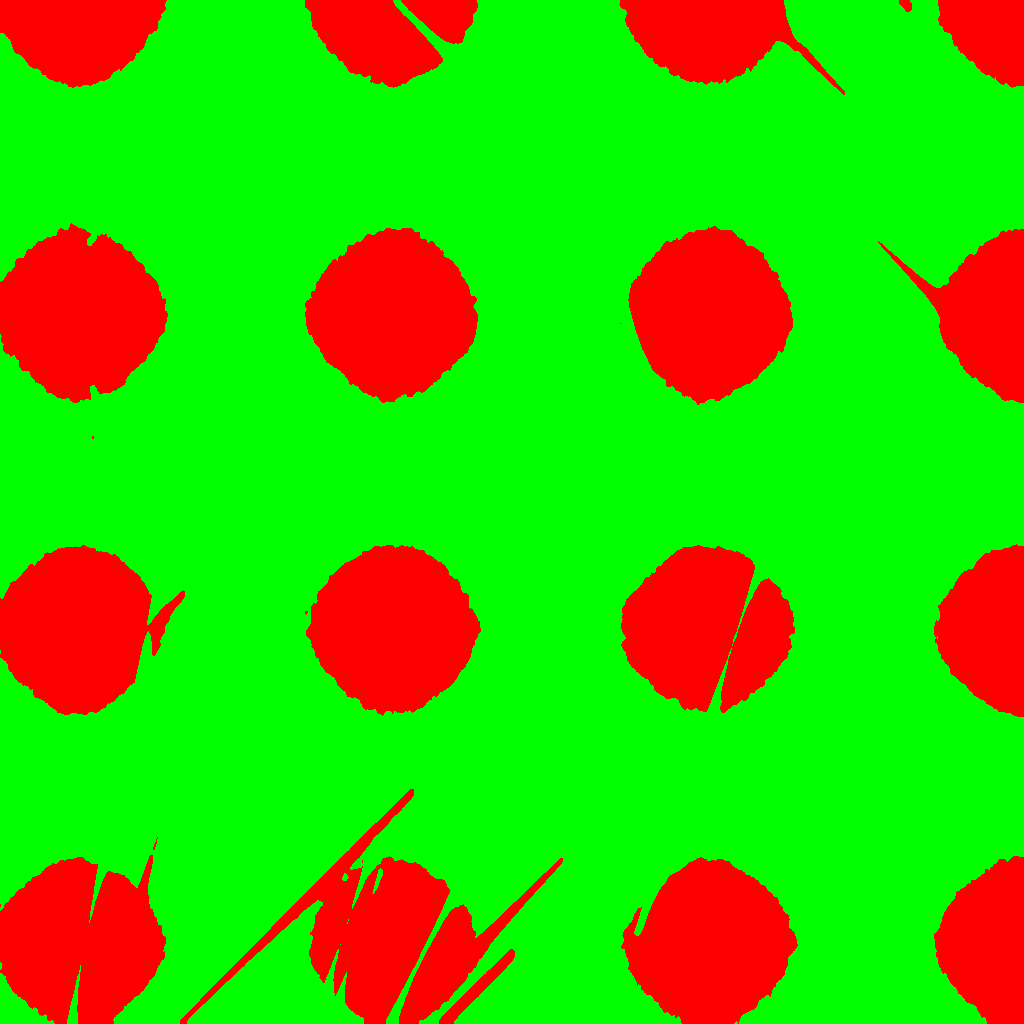
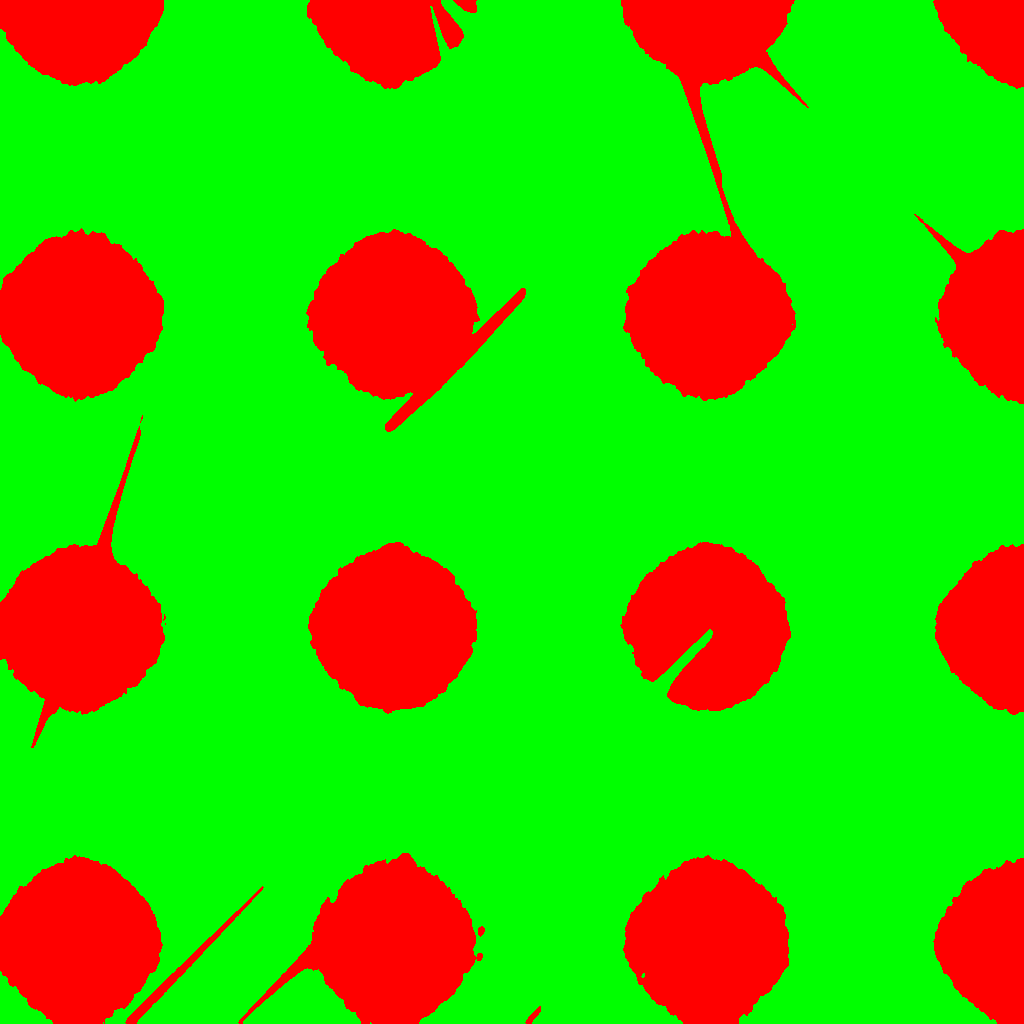
Integrated the snowy and firey parts of the GUI. Will only proceed to fix any problems if needed

diff --git a/src/generation/HUDAppState.java b/src/generation/HUDAppState.java
@@ -24,7 +24,7 @@ public class HUDAppState extends BaseAppState{
     
     private static int treeNum = 0;
     private static int weatherIndex = 0;
-    private static String [] weathers = {"Sunny", "Rainy"};
+    private static String [] weathers = {"Sunny", "Rainy", "Snowy", "Firey"};
     private final HUDInputManager HUD_INPUT_MANAGER = new HUDInputManager();
     private BitmapText treeNumText, weatherText, createTerrainText;
     private final int NUM_OF_ARROWS = 3; 
